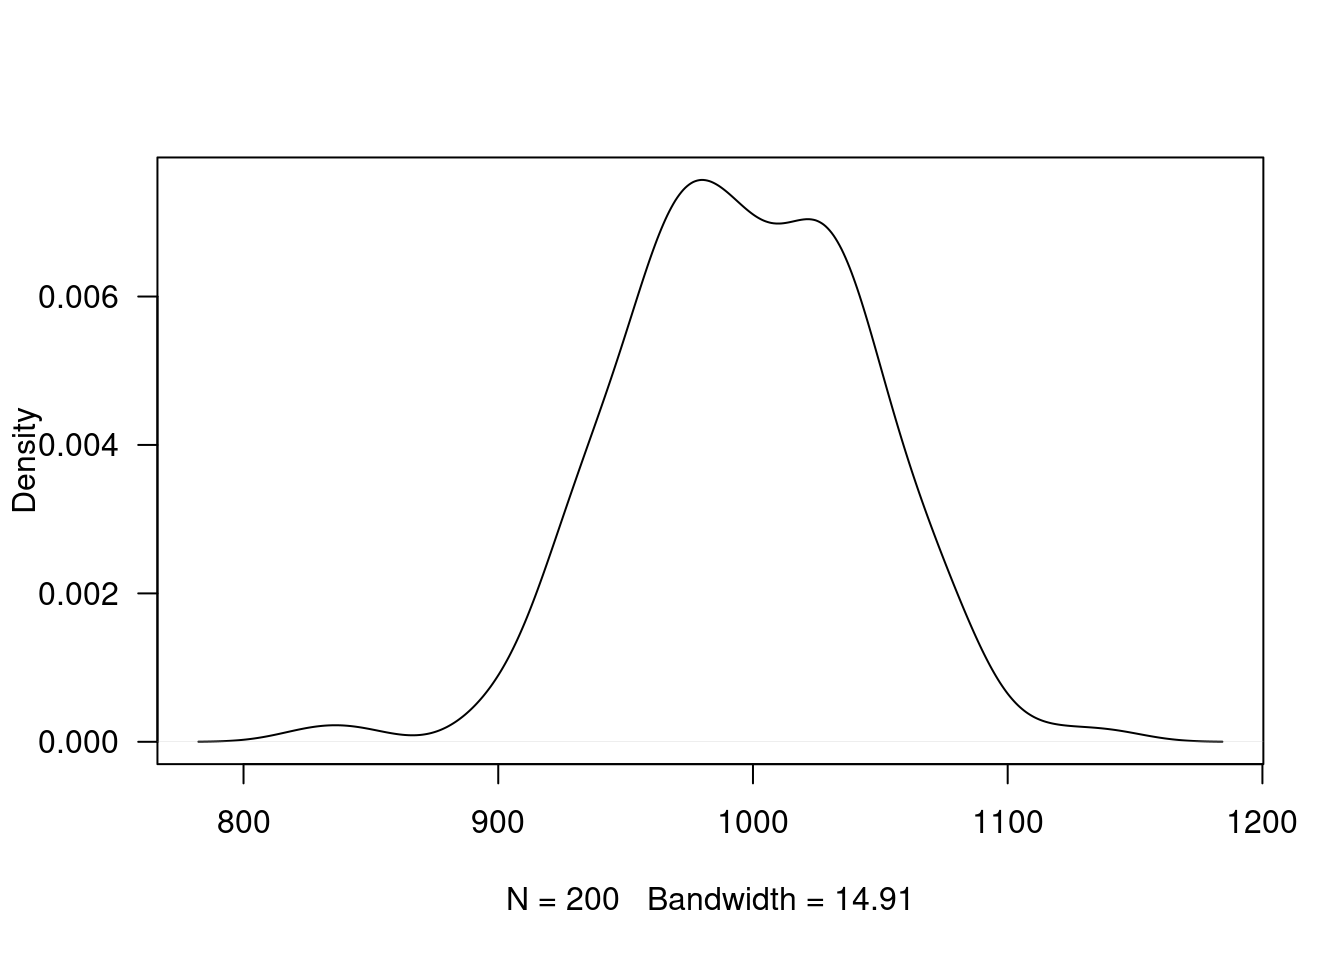
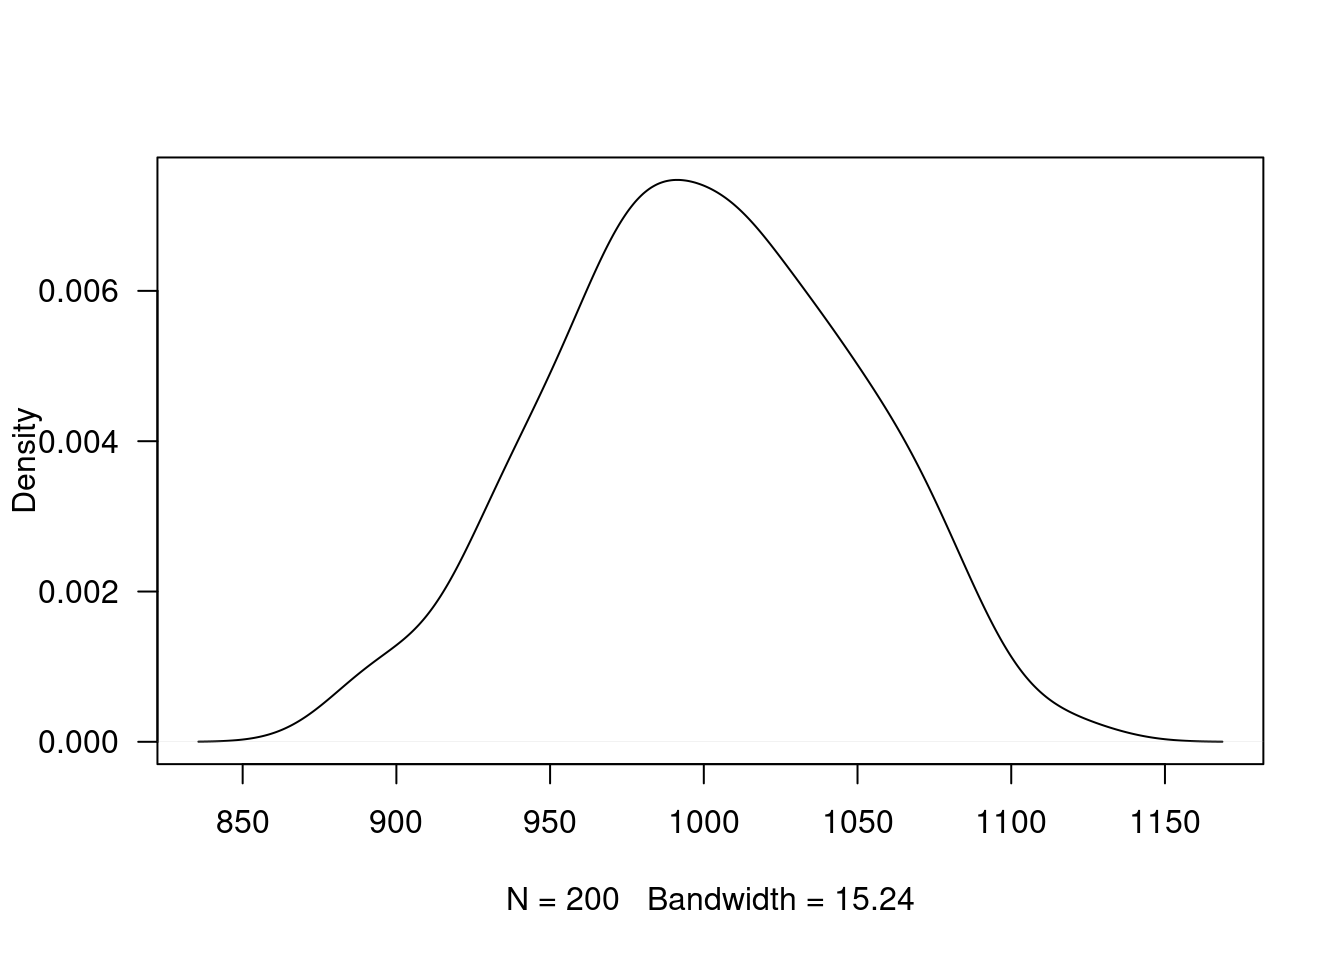
add presentacion a guia 4.3

diff --git a/Guia403.html b/Guia403.html
@@ -652,6 +652,7 @@ Ademas del material suministrado contaran con el acompañamiento del profesor en
 </div>
 <div id="presentaciones" class="section level2">
 <h2><strong>7. Presentaciones</strong></h2>
+<p><a href="https://github.com/dgonzalez80/pye2021.io/blob/main/talleres/P-PdeH1.pdf">Presentación PdeH</a></p>
 <p><br/><br/><br/><br/></p>
 </div>
 </div>
@@ -1922,7 +1923,7 @@ plot(density(x), main=&quot; &quot;, las=1)</code></pre>
     Shapiro-Wilk normality test
 
 data:  x
-W = 0.9912, p-value = 0.2652</code></pre>
+W = 0.99475, p-value = 0.7128</code></pre>
 <p>Esta prueba no requiere la instalación de paquetes adicionales, pues está disponible en la configuración básica de R</p>
 <p>Como el valor-p es superior al nivel de significancia <span class="math inline">\(\alpha\)</span>, no se rechaza <span class="math inline">\(Ho\)</span>, se asume que la distribución de la variable es normal.</p>
 <p>Otras pruebas de normalidad utilizadas con frecuencia son:</p>
@@ -1934,19 +1935,19 @@ jb.norm.test(x)  # Test de normalidad de Jarque-Bera</code></pre>
     Jarque-Bera test for normality
 
 data:  x
-JB = 2.5039, p-value = 0.23</code></pre>
+JB = 1.6908, p-value = 0.3915</code></pre>
 <pre class="r"><code>kurtosis.norm.test(x)</code></pre>
 <pre><code>
     Kurtosis test for normality
 
 data:  x
-T = 3.4281, p-value = 0.1685</code></pre>
+T = 2.5579, p-value = 0.144</code></pre>
 <pre class="r"><code>skewness.norm.test(x)   </code></pre>
 <pre><code>
     Skewness test for normality
 
 data:  x
-T = -0.17116, p-value = 0.2985</code></pre>
+T = -0.043041, p-value = 0.796</code></pre>
 <pre class="r"><code># install.packages(&quot;nortets&quot;)
 library(nortest)
 
@@ -1955,13 +1956,13 @@ lillie.test(x) # Kolmogorov-Smirnov</code></pre>
     Lilliefors (Kolmogorov-Smirnov) normality test
 
 data:  x
-D = 0.037194, p-value = 0.7167</code></pre>
+D = 0.030402, p-value = 0.9235</code></pre>
 <pre class="r"><code>pearson.test(x) # chi-cuadrado de Pearson</code></pre>
 <pre><code>
     Pearson chi-square normality test
 
 data:  x
-P = 17.26, p-value = 0.2426</code></pre>
+P = 6.21, p-value = 0.9609</code></pre>
 <p><br/><br/></p>
 <p><br/><br/><br/><br/></p>
 </div>
